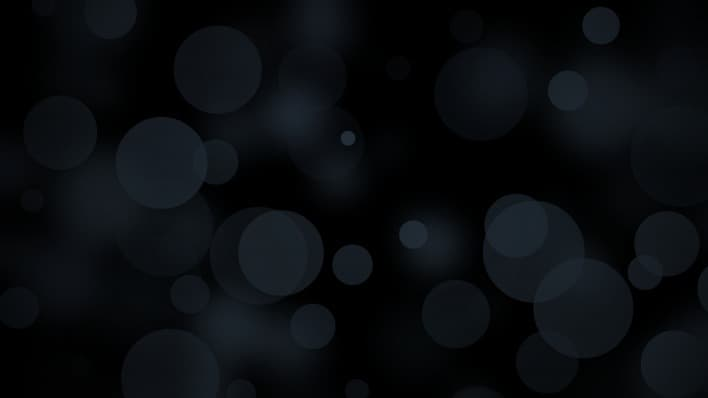
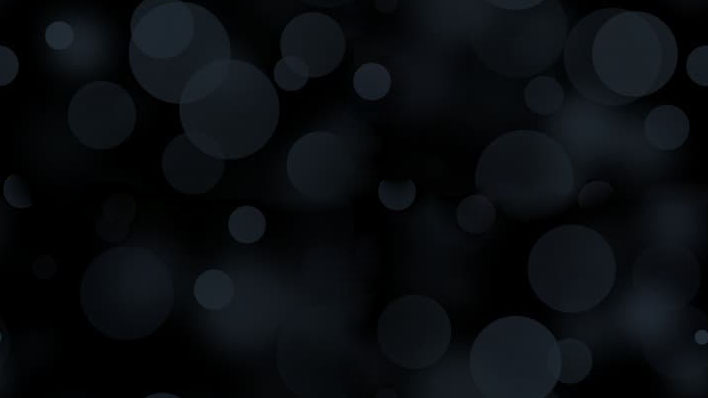
Убрал стыки бекграунда

diff --git a/src/sass/components/_myFilmLibraryPage.scss b/src/sass/components/_myFilmLibraryPage.scss
@@ -1,6 +1,13 @@
 .gallery-bgr {
   background-color: rgba(0, 0, 0, 0.16);
   background-image: url(../images/missing-films.jpg);
+  box-shadow: 2px -2px 30px 2px rgb(255, 255, 255);
+  // box-shadow: 
+  //   0 0 0 10px hsl(0, 0%, 50%),
+  //   0 0 0 15px hsl(0, 0%, 60%),
+  //   0 0 0 20px hsl(0, 0%, 70%),
+  //   0 0 0 25px hsl(0, 0%, 80%),
+  //   0 0 0 30px hsl(0, 0%, 90%);
   //   background-position: center;
   background-size: cover;
   //   background-repeat: no-repeat;
